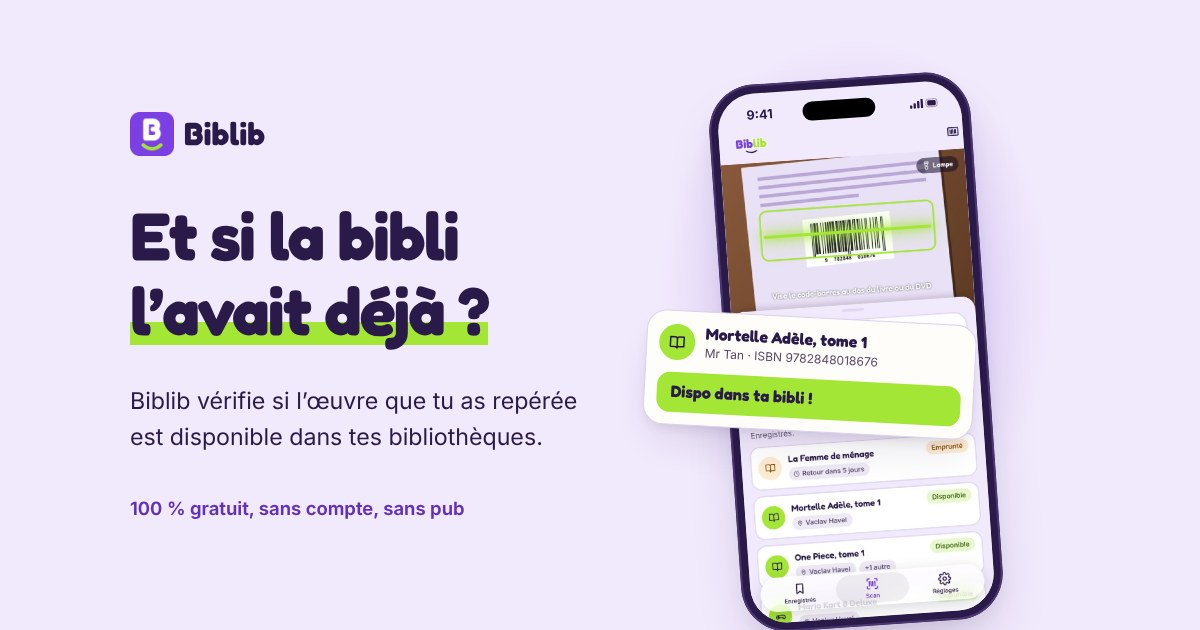
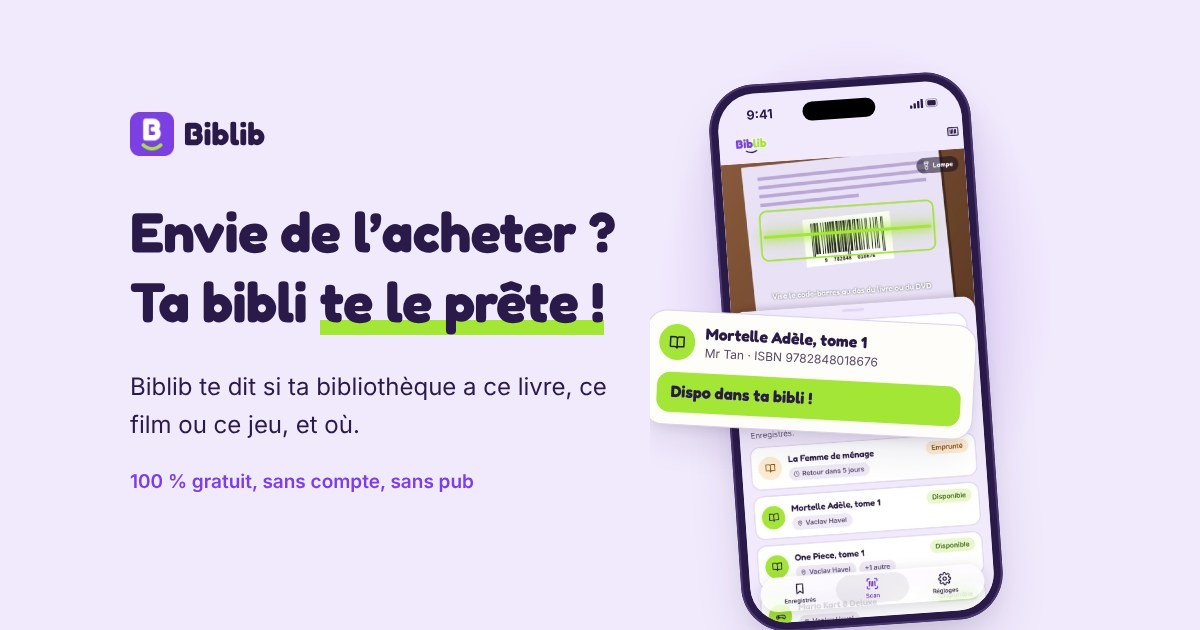
Accueil : « Envie de l'acheter ? Ta bibli te le prête ! »
Nouveau titre et nouveau sous-titre, image de partage refaite,
titre de l'accueil réduit pour tenir sur deux lignes.

Claude-Session: https://claude.ai/code/session_016S1ijbkwPkVWwE447W6wAm

Changed region(s): [[0.0925, 0.3317, 0.5242, 0.573], [0.0925, 0.6032, 0.5242, 0.7238], [0.0925, 0.754, 0.4008, 0.8444]]

diff --git a/index.html b/index.html
@@ -1,20 +1,20 @@
 ---
 layout: site
 title: "Biblib"
-description: "Vérifie si l’œuvre que tu as repérée est disponible dans tes bibliothèques. Biblib existe sur iPhone et dans Chrome."
+description: "Envie de l’acheter ? Ta bibli te le prête ! Biblib te dit si ta bibliothèque a ce livre, ce film ou ce jeu, et où. Sur iPhone et dans Chrome."
 nav: accueil
 permalink: /
 ---
 <div class="bb-hero">
         <div class="bb-wrap bb-hero-layout">
           <div class="bb-stack">
-            <h1 id="biblib-titre-accueil">Et si la bibli <span class="bb-highlight">l’avait déjà&nbsp;?</span></h1>
-            <p class="bb-hero-copy">Biblib vérifie si l’œuvre que tu as repérée est disponible dans tes bibliothèques.</p>
+            <h1 id="biblib-titre-accueil">Envie de l’acheter&nbsp;?<br> Ta bibli <span class="bb-highlight">te le prête&nbsp;!</span></h1>
+            <p class="bb-hero-copy">Biblib te dit si ta bibliothèque a ce livre, ce film ou ce jeu, et où.</p>
             <div class="bb-actions">
               <a class="bb-button bb-primary" href="https://apps.apple.com/fr/app/biblib-dispo-en-biblioth%C3%A8que/id6828761341">Télécharger sur iPhone</a>
               <a class="bb-button bb-secondary" href="https://chromewebstore.google.com/detail/biblib-ce-livre-est-il-da/bigjgcfejleibpibbmmnpoagdckoacmn">Ajouter à Chrome</a>
             </div>
-            <p class="bb-muted bb-small bb-hero-note">100&nbsp;% gratuit, sans compte, sans pub</p>
+            <p class="bb-muted bb-small bb-hero-note">Plus de culture, sans tout acheter. 100&nbsp;% gratuit, sans compte, sans pub.</p>
           </div>
           <figure class="bb-showcase">
             <div class="bb-iphone">

diff --git a/assets/biblib.css b/assets/biblib.css
@@ -108,6 +108,7 @@
   #biblib-maquette .bb-hero { background: var(--lavender); }
   #biblib-maquette .bb-hero-layout { display: grid; grid-template-columns: minmax(0, 1.15fr) minmax(0, 1fr); gap: clamp(18px, 3.5vw, 40px); align-items: center; padding-block: clamp(30px, 5.8vw, 70px); }
   #biblib-maquette .bb-highlight { background: linear-gradient(transparent 64%, var(--mark) 64% 93%, transparent 93%); box-decoration-break: clone; -webkit-box-decoration-break: clone; }
+  #biblib-maquette .bb-hero h1 { font-size: clamp(2.1rem, 4.6vw, 3.6rem); }
   #biblib-maquette .bb-hero-copy { max-width: 39ch; padding-block: 2px 4px; }
   #biblib-maquette .bb-browser { position: relative; aspect-ratio: 461 / 424; overflow: hidden; border-radius: 13px; background: var(--frame); border: 1px solid var(--frame-line); box-shadow: 0 13px 28px var(--shadow); }
   #biblib-maquette .bb-browser img { position: absolute; top: -11.8%; left: -75.3%; width: 182.22%; height: auto; max-width: none; }
